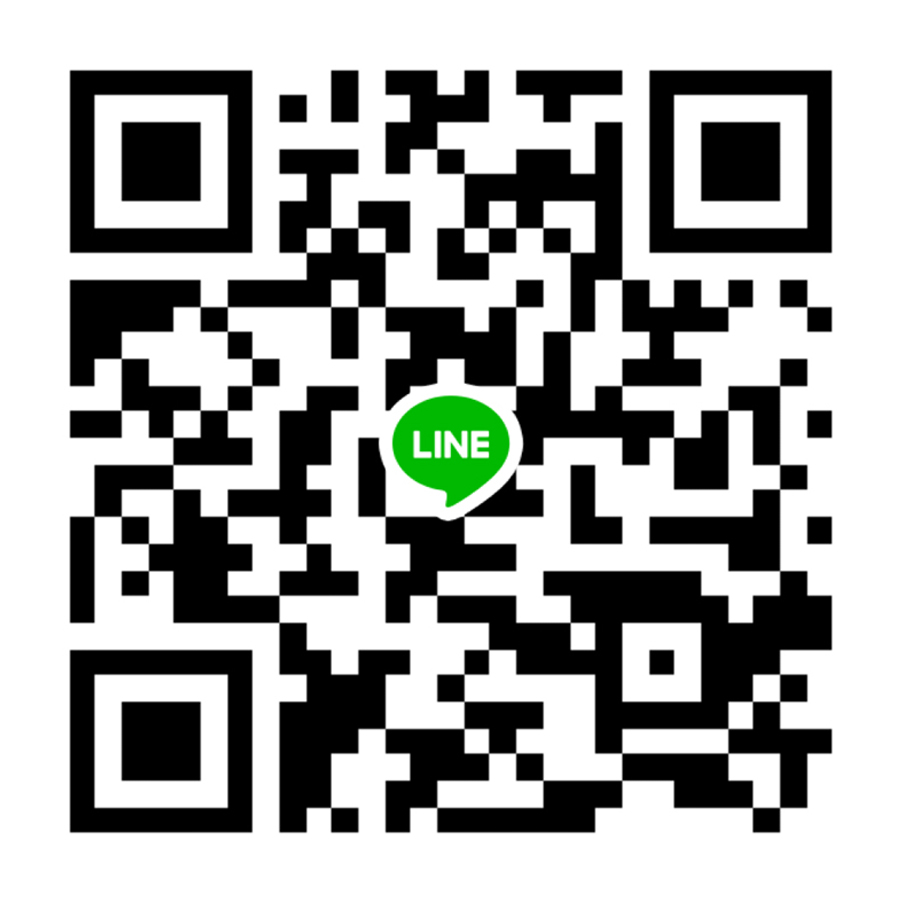
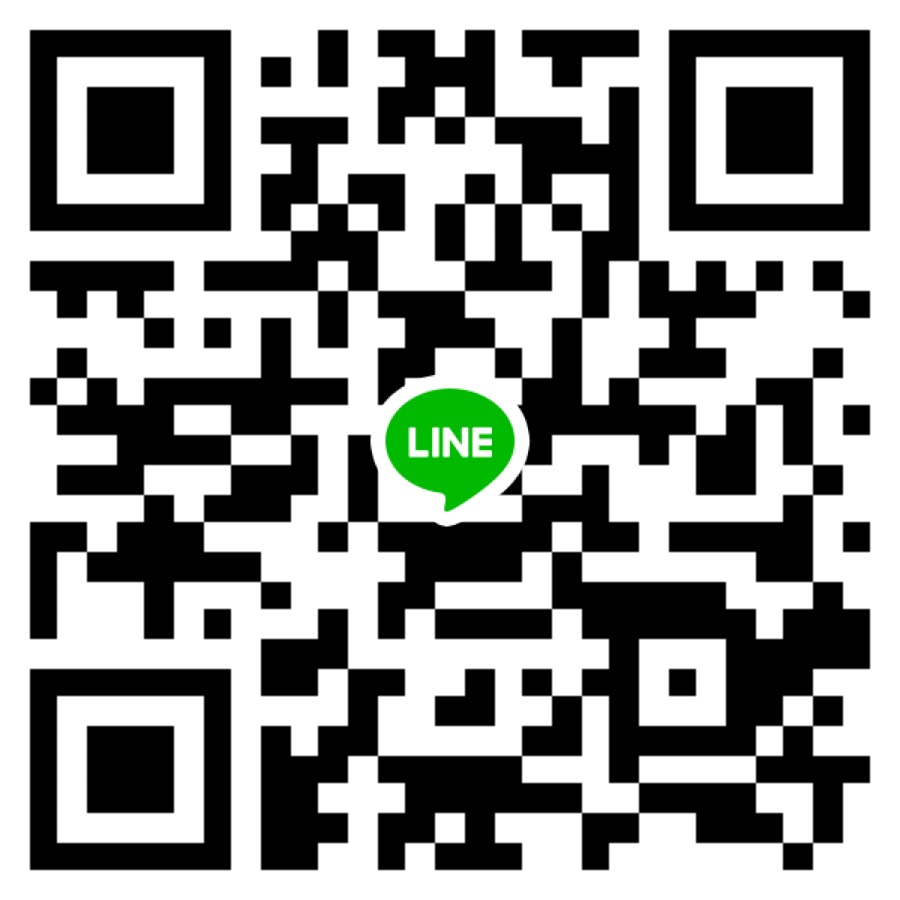
to s686

diff --git a/26381212092232021312.html b/26381212092232021312.html
@@ -1,7 +1,7 @@
 <!DOCTYPE html>
 <html lang="zh_TW">
 	<head>
-		<title>&#26381;&#21209;&#22320;&#21312; - 蜜糖 SGS66-&#27155;&#40179;/&#23450;&#40670;/&#27888;&#27927;/&#27873;&#27873;&#28020;&#12304;&#20813;&#25151;&#36027;&#12305;</title>
+		<title>&#26381;&#21209;&#22320;&#21312; - 絕品 s686vip-&#27155;&#40179;/&#23450;&#40670;/&#27888;&#27927;/&#27873;&#27873;&#28020;&#12304;&#20813;&#25151;&#36027;&#12305;</title>
 
 
 <meta http-equiv="Content-Type" content="text/html; charset=utf-8"/>
@@ -153,7 +153,7 @@ _W.setup_model_rpc({"rpc_namespace":"_W.CustomerAccounts.RPC","model_namespace":
 
 	<a href="">
 	
-	<span id="wsite-title">蜜糖 SGS66 -&#27155;&#40179;/&#23450;&#40670;/&#27888;&#27927;/&#27873;&#27873;&#28020;&#12304;&#20813;&#25151;&#36027;&#12305;</span>
+	<span id="wsite-title">絕品 s686vip -&#27155;&#40179;/&#23450;&#40670;/&#27888;&#27927;/&#27873;&#27873;&#28020;&#12304;&#20813;&#25151;&#36027;&#12305;</span>
 	
 	</a>
 
@@ -341,7 +341,7 @@ _W.setup_model_rpc({"rpc_namespace":"_W.CustomerAccounts.RPC","model_namespace":
 <div class="paragraph" style="text-align:center;"><strong><font color="#626262"><font size="5"><font><font><font>&#20013;&#23665;/&#26032;&#29983;&#21271;/&#26519;&#26862;&#21271;/&#22823;&#21516;/&#20013;&#27491;/&#35199;&#38272;/&#33836;&#33775;</font></font></font></font><br /><font size="5"><font><font>&#26495;&#27211;/&#19977;&#37325;/&#34310;&#27954;</font></font></font></font></strong><strong style="color:rgb(63, 63, 63)"><font color="#626262"><font size="5">/&#27704;&#21644;/&#20013;&#21644;</font></font></strong><strong><font color="#626262"><font size="5"><font><font>/&#27193;&#26519;/&#26519;&#21475;/&#27728;&#27490;/&#22522;&#38534;</font></font></font><br /><font size="5"><font><font><font>&#23452;&#34349;/&#26691;&#22290;/</font></font></font></font></font></strong><strong style="color:rgb(63, 63, 63)"><font color="#626262"><font size="5">&#20013;&#22754;/</font></font></strong><strong><font color="#626262"><font size="5"><font><font><font>&#21335;&#23809;/&#40845;&#28525;/&#26954;&#26757;/&#26032;&#31481;/&#33495;&#26647;/&#21488;&#20013;<br />&#24432;&#21270;/&#38642;&#26519;/&#22025;&#32681;/&#21488;&#21335;/&#39640;&#38596;</font></font></font></font></font></strong></div>
 
 <div style="text-align:center;"><div style="height: 10px; overflow: hidden;"></div>
-<a class="wsite-button wsite-button-small wsite-button-highlight" href="https://line.me/ti/p/tKv2rs6mhJ"  onclick="gtag('event', '加好友', {'event_category' : '點擊', 'event_label' : '服務地區'});" >
+<a class="wsite-button wsite-button-small wsite-button-highlight" href="https://line.me/ti/p/8v3QH3NN68"  onclick="gtag('event', '加好友', {'event_category' : '點擊', 'event_label' : '服務地區'});" >
 <span class="wsite-button-inner">加好友看更多</span>
 </a>
 <div style="height: 10px; overflow: hidden;"></div></div>
@@ -455,7 +455,7 @@ _W.setup_model_rpc({"rpc_namespace":"_W.CustomerAccounts.RPC","model_namespace":
 </div>
 
   <div class="mini-cart-overlay"></div>
-<a target="_blank" href="https://line.me/ti/p/tKv2rs6mhJ" onclick="gtag('event', '加好友', {'event_category' : '點擊', 'event_label' : '服務地區-固定'});"><div class="fixedAddFri"><img src="addfir2.png" style="width: 100%; "></div></a>
+<a target="_blank" href="https://line.me/ti/p/8v3QH3NN68" onclick="gtag('event', '加好友', {'event_category' : '點擊', 'event_label' : '服務地區-固定'});"><div class="fixedAddFri"><img src="addfir2.png" style="width: 100%; "></div></a>
 <link rel="stylesheet" type="text/css" href="custom.css?t=11111">
   <script src="files/theme/plugins.js"></script>
   <script src="files/theme/jquery.pxuMenu.js"></script>

diff --git a/index.html b/index.html
@@ -1,8 +1,8 @@
 <!DOCTYPE html>
 <html lang="zh_TW">
 	<head>
-		<title>蜜糖 sgs66-&#27155;&#40179;/&#23450;&#40670;/&#27888;&#27927;/&#27873;&#27873;&#28020;&#12304;&#20813;&#25151;&#36027;&#12305; - &#39318;&#38913;</title>
-<meta name="description" content="優質精選獨家好妹 不怕再踩雷！找糖糖嚴選定點樓鳳/泰洗/泡泡浴幫你安排 讓你做夢都會笑～即刻加 LINE 【TEASG99】享受歡樂時光～" />
+		<title>絕品 s686vip-&#27155;&#40179;/&#23450;&#40670;/&#27888;&#27927;/&#27873;&#27873;&#28020;&#12304;&#20813;&#25151;&#36027;&#12305; - &#39318;&#38913;</title>
+<meta name="description" content="優質精選獨家好妹 不怕再踩雷！找糖糖嚴選定點樓鳳/泰洗/泡泡浴幫你安排 讓你做夢都會笑～即刻加 LINE 【s686vip】享受歡樂時光～" />
 <meta name="keywords" content="色情,巨乳,女僕,全套,做愛,定點,樓鳳,外送,泰洗,桑拿,口爆,小模,洋妞,俄羅斯妹妹,金絲貓,東南亞妹妹,東莞桑拿,一條龍,台北按摩,泡泡浴,泰國浴,泰洗,奶浴,奶洗,奶泡,半套,走後門,無套做,免房費" />
 <meta http-equiv="Content-Type" content="text/html; charset=utf-8"/>
   <meta name="viewport" content="width=device-width, initial-scale=1.0"/>
@@ -139,7 +139,7 @@ var STYLE_PREFIX = 'wsite';
 
 	<a href="">
 	
-	<span id="wsite-title">蜜糖 sgs66 -&#27155;&#40179;/&#23450;&#40670;/&#27888;&#27927;/&#27873;&#27873;&#28020;&#12304;&#20813;&#25151;&#36027;&#12305;</span>
+	<span id="wsite-title">絕品 s686vip -&#27155;&#40179;/&#23450;&#40670;/&#27888;&#27927;/&#27873;&#27873;&#28020;&#12304;&#20813;&#25151;&#36027;&#12305;</span>
 	
 	</a>
 
@@ -357,7 +357,7 @@ var STYLE_PREFIX = 'wsite';
 			<input type="hidden" name="ucfid" value="120149829353888199" />
 			<input type="hidden" name="recaptcha_token"/>
 			<input type="submit" role="button" aria-label="點擊加好友" value="點擊加好友" style="position:absolute;top:0;left:-9999px;width:1px;height:1px" />
-<a class="wsite-button wsite-button-small wsite-button-normal" onclick="aclick();" target="_blank" href="https://line.me/ti/p/tKv2rs6mhJ" >
+<a class="wsite-button wsite-button-small wsite-button-normal" onclick="aclick();" target="_blank" href="https://line.me/ti/p/8v3QH3NN68" >
 <span class="wsite-button-inner">點擊加好友</span>
 </a>
 		</div>
@@ -701,7 +701,7 @@ var STYLE_PREFIX = 'wsite';
   <script src="files/theme/jquery.revealer.js"></script>
   <script src="files/theme/custom-1.js"></script>
     <div id="customer-accounts-app"></div>
-<a target="_blank" href="https://line.me/ti/p/tKv2rs6mhJ" onclick="gtag('event', '加好友', {'event_category' : '點擊', 'event_label' : '首頁-固定'});"><div class="fixedAddFri"><img src="addfir2.png" style="width: 100%; "></div></a>
+<a target="_blank" href="https://line.me/ti/p/8v3QH3NN68" onclick="gtag('event', '加好友', {'event_category' : '點擊', 'event_label' : '首頁-固定'});"><div class="fixedAddFri"><img src="addfir2.png" style="width: 100%; "></div></a>
 <link rel="stylesheet" type="text/css" href="custom.css?t=11111">
 	</body>
 </html>

diff --git a/389143202626705253432356021312.html b/389143202626705253432356021312.html
@@ -1,7 +1,7 @@
 <!DOCTYPE html>
 <html lang="zh_TW">
 	<head>
-		<title>&#38914;&#32026;&#26705;&#25343;&#23560;&#21312; - 蜜糖SGS66-&#27155;&#40179;/&#23450;&#40670;/&#27888;&#27927;/&#27873;&#27873;&#28020;&#12304;&#20813;&#25151;&#36027;&#12305;</title>
+		<title>&#38914;&#32026;&#26705;&#25343;&#23560;&#21312; - 絕品 s686vip-&#27155;&#40179;/&#23450;&#40670;/&#27888;&#27927;/&#27873;&#27873;&#28020;&#12304;&#20813;&#25151;&#36027;&#12305;</title>
 
 
 <meta http-equiv="Content-Type" content="text/html; charset=utf-8"/>
@@ -153,7 +153,7 @@ _W.setup_model_rpc({"rpc_namespace":"_W.CustomerAccounts.RPC","model_namespace":
 
 	<a href="">
 	
-	<span id="wsite-title">蜜糖 SGS66 -&#27155;&#40179;/&#23450;&#40670;/&#27888;&#27927;/&#27873;&#27873;&#28020;&#12304;&#20813;&#25151;&#36027;&#12305;</span>
+	<span id="wsite-title">絕品 s686vip -&#27155;&#40179;/&#23450;&#40670;/&#27888;&#27927;/&#27873;&#27873;&#28020;&#12304;&#20813;&#25151;&#36027;&#12305;</span>
 	
 	</a>
 
@@ -341,7 +341,7 @@ _W.setup_model_rpc({"rpc_namespace":"_W.CustomerAccounts.RPC","model_namespace":
 <div class="paragraph" style="text-align:center;"><strong></strong><strong style="color:rgb(63, 63, 63)"><font size="4">&#37325;&#26381;&#21209;&#30340;&#21733;&#21733;&#30475;&#36889;&#35041;&#65374;&#20445;&#35657;&#35731;&#20320;&#36890;&#39636;&#33298;&#26274;&#21908;&#10084;&#65039;<br />&#21152;&#25105;LINE&#21487;&#20197;&#30475;&#26356;&#22810;&#65374;&#36996;&#26377;&#24433;&#29255;&#21815;^^&nbsp;</font></strong>&#8203;<strong></strong></div>
 
 <div style="text-align:center;"><div style="height: 10px; overflow: hidden;"></div>
-<a class="wsite-button wsite-button-small wsite-button-normal" href="https://line.me/ti/p/tKv2rs6mhJ"  onclick="gtag('event', '加好友', {'event_category' : '點擊', 'event_label' : '頂級桑拿'});" >
+<a class="wsite-button wsite-button-small wsite-button-normal" href="https://line.me/ti/p/8v3QH3NN68"  onclick="gtag('event', '加好友', {'event_category' : '點擊', 'event_label' : '頂級桑拿'});" >
 <span class="wsite-button-inner">點擊加好友</span>
 </a>
 <div style="height: 10px; overflow: hidden;"></div></div>
@@ -754,7 +754,7 @@ _W.setup_model_rpc({"rpc_namespace":"_W.CustomerAccounts.RPC","model_namespace":
 </div>
 
   <div class="mini-cart-overlay"></div>
-<a target="_blank" href="https://line.me/ti/p/tKv2rs6mhJ" onclick="gtag('event', '加好友', {'event_category' : '點擊', 'event_label' : '頂級桑拿-固定'});"><div class="fixedAddFri"><img src="addfir2.png" style="width: 100%; "></div></a>
+<a target="_blank" href="https://line.me/ti/p/8v3QH3NN68" onclick="gtag('event', '加好友', {'event_category' : '點擊', 'event_label' : '頂級桑拿-固定'});"><div class="fixedAddFri"><img src="addfir2.png" style="width: 100%; "></div></a>
 <link rel="stylesheet" type="text/css" href="custom.css?t=11111">
   <script src="files/theme/plugins.js"></script>
   <script src="files/theme/jquery.pxuMenu.js"></script>

diff --git a/263682437532005292602356021312.html b/263682437532005292602356021312.html
@@ -1,7 +1,7 @@
 <!DOCTYPE html>
 <html lang="zh_TW">
 	<head>
-		<title>&#26368;&#24375;&#32005;&#29260;&#23560;&#21312; - 蜜糖SGS66-&#27155;&#40179;/&#23450;&#40670;/&#27888;&#27927;/&#27873;&#27873;&#28020;&#12304;&#20813;&#25151;&#36027;&#12305;</title>
+		<title>&#26368;&#24375;&#32005;&#29260;&#23560;&#21312; - 絕品 s686vip-&#27155;&#40179;/&#23450;&#40670;/&#27888;&#27927;/&#27873;&#27873;&#28020;&#12304;&#20813;&#25151;&#36027;&#12305;</title>
 
 
 <meta http-equiv="Content-Type" content="text/html; charset=utf-8"/>
@@ -153,7 +153,7 @@ _W.setup_model_rpc({"rpc_namespace":"_W.CustomerAccounts.RPC","model_namespace":
 
 	<a href="">
 	
-	<span id="wsite-title">蜜糖 SGS66 -&#27155;&#40179;/&#23450;&#40670;/&#27888;&#27927;/&#27873;&#27873;&#28020;&#12304;&#20813;&#25151;&#36027;&#12305;</span>
+	<span id="wsite-title">絕品 s686vip -&#27155;&#40179;/&#23450;&#40670;/&#27888;&#27927;/&#27873;&#27873;&#28020;&#12304;&#20813;&#25151;&#36027;&#12305;</span>
 	
 	</a>
 
@@ -341,7 +341,7 @@ _W.setup_model_rpc({"rpc_namespace":"_W.CustomerAccounts.RPC","model_namespace":
 <div class="paragraph" style="text-align:center;"><strong><font size="4">&#36889;&#20123;&#37117;&#26159;&#23458;&#20154;&#22823;&#25512;&#12289;&#22909;&#35413;&#30340;&#22969;&#22969;&#65374;<br />&#35443;&#32048;&#30340;&#23458;&#35413;&#36039;&#35338;&#37117;&#22312;LINE&#21205;&#24907;&#65292;&#24555;&#21152;&#25105;LINE&#26597;&#30475;&#21908;&#65281;<br /></font></strong></div>
 
 <div style="text-align:center;"><div style="height: 10px; overflow: hidden;"></div>
-<a class="wsite-button wsite-button-small wsite-button-normal" href="https://line.me/ti/p/tKv2rs6mhJ"  onclick="gtag('event', '加好友', {'event_category' : '點擊', 'event_label' : '紅牌專區'});" >
+<a class="wsite-button wsite-button-small wsite-button-normal" href="https://line.me/ti/p/8v3QH3NN68"  onclick="gtag('event', '加好友', {'event_category' : '點擊', 'event_label' : '紅牌專區'});" >
 <span class="wsite-button-inner">點擊加好友</span>
 </a>
 <div style="height: 10px; overflow: hidden;"></div></div>
@@ -897,7 +897,7 @@ _W.setup_model_rpc({"rpc_namespace":"_W.CustomerAccounts.RPC","model_namespace":
 </div>
 
   <div class="mini-cart-overlay"></div>
-<a target="_blank" href="https://line.me/ti/p/tKv2rs6mhJ" onclick="gtag('event', '加好友', {'event_category' : '點擊', 'event_label' : '紅牌專區-固定'});"><div class="fixedAddFri"><img src="addfir2.png" style="width: 100%; "></div></a>
+<a target="_blank" href="https://line.me/ti/p/8v3QH3NN68" onclick="gtag('event', '加好友', {'event_category' : '點擊', 'event_label' : '紅牌專區-固定'});"><div class="fixedAddFri"><img src="addfir2.png" style="width: 100%; "></div></a>
 <link rel="stylesheet" type="text/css" href="custom.css?t=11111">
   <script src="files/theme/plugins.js"></script>
   <script src="files/theme/jquery.pxuMenu.js"></script>

diff --git a/27888279272787327873280202356021312.html b/27888279272787327873280202356021312.html
@@ -1,7 +1,7 @@
 <!DOCTYPE html>
 <html lang="zh_TW">
 	<head>
-		<title>&#27888;&#27927;/&#27873;&#27873;&#28020;&#23560;&#21312; - 蜜糖SGS66-&#27155;&#40179;/&#23450;&#40670;/&#27888;&#27927;/&#27873;&#27873;&#28020;&#12304;&#20813;&#25151;&#36027;&#12305;</title>
+		<title>&#27888;&#27927;/&#27873;&#27873;&#28020;&#23560;&#21312; - 絕品 s686vip-&#27155;&#40179;/&#23450;&#40670;/&#27888;&#27927;/&#27873;&#27873;&#28020;&#12304;&#20813;&#25151;&#36027;&#12305;</title>
 
 
 <meta http-equiv="Content-Type" content="text/html; charset=utf-8"/>
@@ -153,7 +153,7 @@ _W.setup_model_rpc({"rpc_namespace":"_W.CustomerAccounts.RPC","model_namespace":
 
 	<a href="">
 	
-	<span id="wsite-title">蜜糖 SGS66 -&#27155;&#40179;/&#23450;&#40670;/&#27888;&#27927;/&#27873;&#27873;&#28020;&#12304;&#20813;&#25151;&#36027;&#12305;</span>
+	<span id="wsite-title">絕品 s686vip -&#27155;&#40179;/&#23450;&#40670;/&#27888;&#27927;/&#27873;&#27873;&#28020;&#12304;&#20813;&#25151;&#36027;&#12305;</span>
 	
 	</a>
 
@@ -341,7 +341,7 @@ _W.setup_model_rpc({"rpc_namespace":"_W.CustomerAccounts.RPC","model_namespace":
 <div class="paragraph" style="text-align:center;"><strong><font size="4">&#27794;&#29609;&#36942;&#27888;&#22283;&#27927;/&#26085;&#24335;&#27873;&#27873;&#28020;&#21966;&#65311;&#20154;&#29983;&#19968;&#23450;&#35201;&#35430;&#19968;&#27425;&#65281;<br />&#21152;&#25105;LINE&#30475;&#26356;&#22810;&#20778;&#36074;&#36984;&#25799;&#65281;<br /></font></strong></div>
 
 <div style="text-align:center;"><div style="height: 10px; overflow: hidden;"></div>
-<a class="wsite-button wsite-button-small wsite-button-normal" href="https://line.me/ti/p/tKv2rs6mhJ"  onclick="gtag('event', '加好友', {'event_category' : '點擊', 'event_label' : '泰洗'});" >
+<a class="wsite-button wsite-button-small wsite-button-normal" href="https://line.me/ti/p/8v3QH3NN68"  onclick="gtag('event', '加好友', {'event_category' : '點擊', 'event_label' : '泰洗'});" >
 <span class="wsite-button-inner">點擊加好友</span>
 </a>
 <div style="height: 10px; overflow: hidden;"></div></div>
@@ -713,7 +713,7 @@ _W.setup_model_rpc({"rpc_namespace":"_W.CustomerAccounts.RPC","model_namespace":
 </div>
 
   <div class="mini-cart-overlay"></div>
-<a target="_blank" href="https://line.me/ti/p/tKv2rs6mhJ" onclick="gtag('event', '加好友', {'event_category' : '點擊', 'event_label' : '泰洗-固定'});"><div class="fixedAddFri"><img src="addfir2.png" style="width: 100%; "></div></a>
+<a target="_blank" href="https://line.me/ti/p/8v3QH3NN68" onclick="gtag('event', '加好友', {'event_category' : '點擊', 'event_label' : '泰洗-固定'});"><div class="fixedAddFri"><img src="addfir2.png" style="width: 100%; "></div></a>
 <link rel="stylesheet" type="text/css" href="custom.css?t=11111">
   <script src="files/theme/plugins.js"></script>
   <script src="files/theme/jquery.pxuMenu.js"></script>

diff --git a/21488229692356021312.html b/21488229692356021312.html
@@ -1,7 +1,7 @@
 <!DOCTYPE html>
 <html lang="zh_TW">
 	<head>
-		<title>&#21488;&#22969;&#23560;&#21312; - 蜜糖 SGS66-&#27155;&#40179;/&#23450;&#40670;/&#27888;&#27927;/&#27873;&#27873;&#28020;&#12304;&#20813;&#25151;&#36027;&#12305;</title>
+		<title>&#21488;&#22969;&#23560;&#21312; - 絕品 s686vip-&#27155;&#40179;/&#23450;&#40670;/&#27888;&#27927;/&#27873;&#27873;&#28020;&#12304;&#20813;&#25151;&#36027;&#12305;</title>
 
 
 <meta http-equiv="Content-Type" content="text/html; charset=utf-8"/>
@@ -153,7 +153,7 @@ _W.setup_model_rpc({"rpc_namespace":"_W.CustomerAccounts.RPC","model_namespace":
 
 	<a href="">
 	
-	<span id="wsite-title">蜜糖 SGS66 -&#27155;&#40179;/&#23450;&#40670;/&#27888;&#27927;/&#27873;&#27873;&#28020;&#12304;&#20813;&#25151;&#36027;&#12305;</span>
+	<span id="wsite-title">絕品 s686vip -&#27155;&#40179;/&#23450;&#40670;/&#27888;&#27927;/&#27873;&#27873;&#28020;&#12304;&#20813;&#25151;&#36027;&#12305;</span>
 	
 	</a>
 
@@ -341,7 +341,7 @@ _W.setup_model_rpc({"rpc_namespace":"_W.CustomerAccounts.RPC","model_namespace":
 <div class="paragraph" style="text-align:center;"><strong><font size="4">&#23601;&#24859;&#21488;&#22969;&#65281;&#25903;&#25345;&#26412;&#22303;&#22969;&#22969;&#65292;&#29087;&#24713;&#30340;&#23478;&#37129;&#21619;&#65374;<br />&#21152;&#25105;LINE&#26377;&#38577;&#34255;&#29256;&#20778;&#36074;&#21488;&#22969;&#21908;&#65281;</font></strong></div>
 
 <div style="text-align:center;"><div style="height: 10px; overflow: hidden;"></div>
-<a class="wsite-button wsite-button-small wsite-button-normal" href="https://line.me/ti/p/tKv2rs6mhJ"  onclick="gtag('event', '加好友', {'event_category' : '點擊', 'event_label' : '台妹專區'});" >
+<a class="wsite-button wsite-button-small wsite-button-normal" href="https://line.me/ti/p/8v3QH3NN68"  onclick="gtag('event', '加好友', {'event_category' : '點擊', 'event_label' : '台妹專區'});" >
 <span class="wsite-button-inner">點擊加好友</span>
 </a>
 <div style="height: 10px; overflow: hidden;"></div></div>
@@ -737,7 +737,7 @@ _W.setup_model_rpc({"rpc_namespace":"_W.CustomerAccounts.RPC","model_namespace":
 </div>
 
   <div class="mini-cart-overlay"></div>
-<a target="_blank" href="https://line.me/ti/p/tKv2rs6mhJ" onclick="gtag('event', '加好友', {'event_category' : '點擊', 'event_label' : '台妹專區-固定'});"><div class="fixedAddFri"><img src="addfir2.png" style="width: 100%; "></div></a>
+<a target="_blank" href="https://line.me/ti/p/8v3QH3NN68" onclick="gtag('event', '加好友', {'event_category' : '點擊', 'event_label' : '台妹專區-固定'});"><div class="fixedAddFri"><img src="addfir2.png" style="width: 100%; "></div></a>
 <link rel="stylesheet" type="text/css" href="custom.css?t=11111">
   <script src="files/theme/plugins.js"></script>
   <script src="files/theme/jquery.pxuMenu.js"></script>

diff --git a/27880248472010738917.html b/27880248472010738917.html
@@ -1,7 +1,7 @@
 <!DOCTYPE html>
 <html lang="zh_TW">
 	<head>
-		<title>&#27880;&#24847;&#20107;&#38917; - 蜜糖 SGS66-&#27155;&#40179;/&#23450;&#40670;/&#27888;&#27927;/&#27873;&#27873;&#28020;&#12304;&#20813;&#25151;&#36027;&#12305;</title>
+		<title>&#27880;&#24847;&#20107;&#38917; - 絕品 s686vip-&#27155;&#40179;/&#23450;&#40670;/&#27888;&#27927;/&#27873;&#27873;&#28020;&#12304;&#20813;&#25151;&#36027;&#12305;</title>
 
 
 <meta http-equiv="Content-Type" content="text/html; charset=utf-8"/>
@@ -153,7 +153,7 @@ _W.setup_model_rpc({"rpc_namespace":"_W.CustomerAccounts.RPC","model_namespace":
 
 	<a href="">
 	
-	<span id="wsite-title">蜜糖 SGS66 -&#27155;&#40179;/&#23450;&#40670;/&#27888;&#27927;/&#27873;&#27873;&#28020;&#12304;&#20813;&#25151;&#36027;&#12305;</span>
+	<span id="wsite-title">絕品 s686vip -&#27155;&#40179;/&#23450;&#40670;/&#27888;&#27927;/&#27873;&#27873;&#28020;&#12304;&#20813;&#25151;&#36027;&#12305;</span>
 	
 	</a>
 
@@ -337,7 +337,7 @@ _W.setup_model_rpc({"rpc_namespace":"_W.CustomerAccounts.RPC","model_namespace":
 <h2 class="wsite-content-title" style="text-align:center;"><span style="color:rgb(63, 63, 63)">&#9888;&#65039;</span><font color="#3f3f3f"><font size="7">&#27880;&#24847;&#20107;&#38917;</font></font><span style="color:rgb(63, 63, 63)">&#9888;&#65039;</span><br /><font size="5" color="#626262">Matters needing attention</font></h2>
 
 <div style="text-align:center;"><div style="height: 10px; overflow: hidden;"></div>
-<a class="wsite-button wsite-button-small wsite-button-highlight" href="https://line.me/ti/p/tKv2rs6mhJ"  onclick="gtag('event', '加好友', {'event_category' : '點擊', 'event_label' : '注意事項'});" >
+<a class="wsite-button wsite-button-small wsite-button-highlight" href="https://line.me/ti/p/8v3QH3NN68"  onclick="gtag('event', '加好友', {'event_category' : '點擊', 'event_label' : '注意事項'});" >
 <span class="wsite-button-inner">點擊加好友</span>
 </a>
 <div style="height: 10px; overflow: hidden;"></div></div>
@@ -435,7 +435,7 @@ _W.setup_model_rpc({"rpc_namespace":"_W.CustomerAccounts.RPC","model_namespace":
 </div>
 
   <div class="mini-cart-overlay"></div>
-<a target="_blank" href="https://line.me/ti/p/tKv2rs6mhJ" onclick="gtag('event', '加好友', {'event_category' : '點擊', 'event_label' : '注意事項-固定'});"><div class="fixedAddFri"><img src="addfir2.png" style="width: 100%; "></div></a>
+<a target="_blank" href="https://line.me/ti/p/8v3QH3NN68" onclick="gtag('event', '加好友', {'event_category' : '點擊', 'event_label' : '注意事項-固定'});"><div class="fixedAddFri"><img src="addfir2.png" style="width: 100%; "></div></a>
 <link rel="stylesheet" type="text/css" href="custom.css?t=11111">
   <script src="files/theme/plugins.js"></script>
   <script src="files/theme/jquery.pxuMenu.js"></script>

diff --git a/28040360272604124335.html b/28040360272604124335.html
@@ -1,7 +1,7 @@
 <!DOCTYPE html>
 <html lang="zh_TW">
 	<head>
-		<title>&#28040;&#36027;&#26041;&#24335; - 蜜糖 SGS66-&#27155;&#40179;/&#23450;&#40670;/&#27888;&#27927;/&#27873;&#27873;&#28020;&#12304;&#20813;&#25151;&#36027;&#12305;</title>
+		<title>&#28040;&#36027;&#26041;&#24335; - 絕品 s686vip-&#27155;&#40179;/&#23450;&#40670;/&#27888;&#27927;/&#27873;&#27873;&#28020;&#12304;&#20813;&#25151;&#36027;&#12305;</title>
 
 
 <meta http-equiv="Content-Type" content="text/html; charset=utf-8"/>
@@ -153,7 +153,7 @@ _W.setup_model_rpc({"rpc_namespace":"_W.CustomerAccounts.RPC","model_namespace":
 
 	<a href="">
 	
-	<span id="wsite-title">蜜糖 SGS66 -&#27155;&#40179;/&#23450;&#40670;/&#27888;&#27927;/&#27873;&#27873;&#28020;&#12304;&#20813;&#25151;&#36027;&#12305;</span>
+	<span id="wsite-title">絕品 s686vip -&#27155;&#40179;/&#23450;&#40670;/&#27888;&#27927;/&#27873;&#27873;&#28020;&#12304;&#20813;&#25151;&#36027;&#12305;</span>
 	
 	</a>
 
@@ -480,7 +480,7 @@ _W.setup_model_rpc({"rpc_namespace":"_W.CustomerAccounts.RPC","model_namespace":
 </div>
 
   <div class="mini-cart-overlay"></div>
-<a target="_blank" href="https://line.me/ti/p/tKv2rs6mhJ" onclick="gtag('event', '加好友', {'event_category' : '點擊', 'event_label' : '消費方式-固定'});"><div class="fixedAddFri"><img src="addfir2.png" style="width: 100%; "></div></a>
+<a target="_blank" href="https://line.me/ti/p/8v3QH3NN68" onclick="gtag('event', '加好友', {'event_category' : '點擊', 'event_label' : '消費方式-固定'});"><div class="fixedAddFri"><img src="addfir2.png" style="width: 100%; "></div></a>
 <link rel="stylesheet" type="text/css" href="custom.css?t=11111">
   <script src="files/theme/plugins.js"></script>
   <script src="files/theme/jquery.pxuMenu.js"></script>
